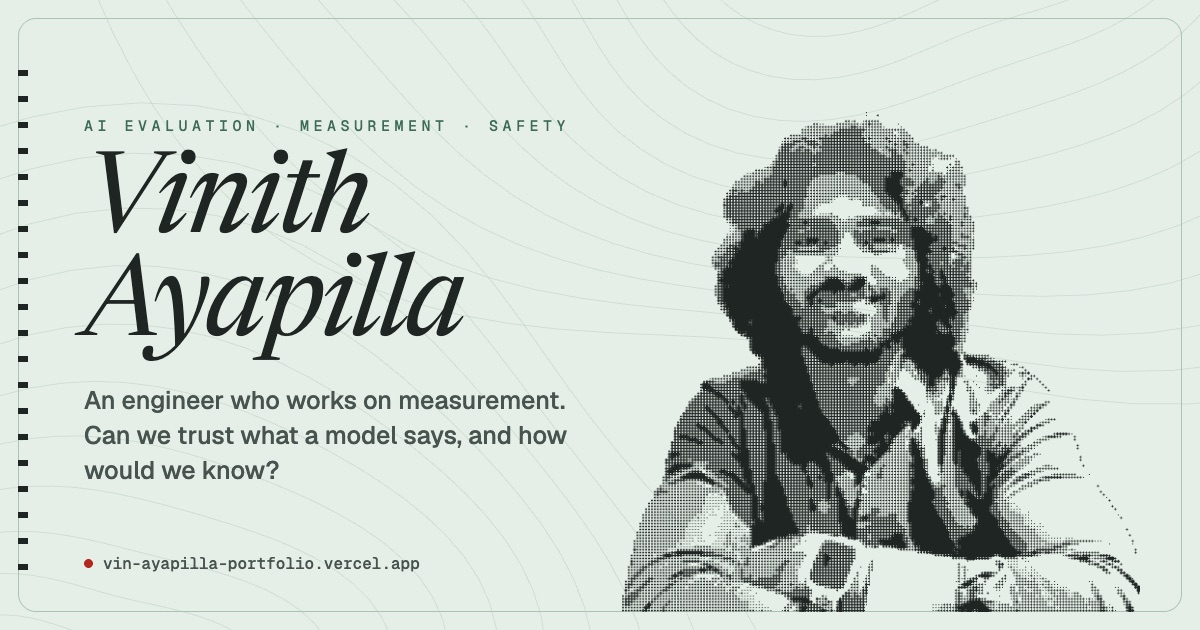
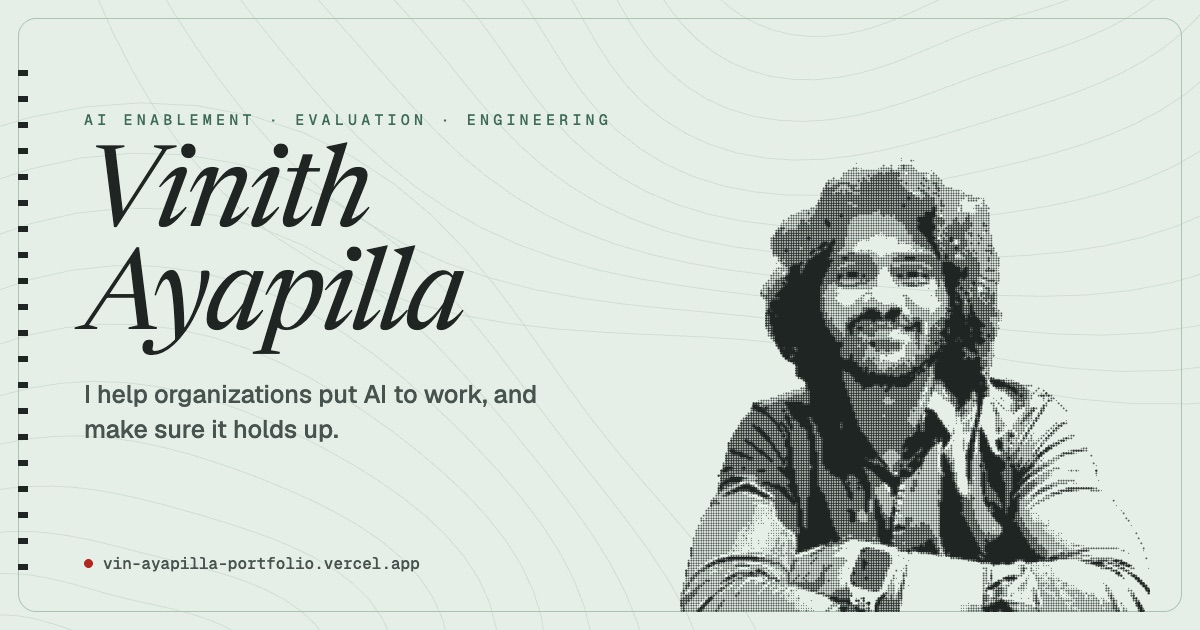
Reframe the home page around AI enablement
- Role line: AI enablement · evaluation · engineering (title, description,
  link-preview card and structured data updated to match)
- About leads with putting AI to work inside organizations and making sure it
  holds up; the India paragraph stays, in a more neutral form
- New "What I do" section: four capabilities, each linked to the work behind it
- Now block lists shipped and in-flight engineering before the safety teaser
- Effective altruism stays on the profile; the home corner label is now
  "about & skills"

diff --git a/src/content.js b/src/content.js
@@ -19,7 +19,7 @@ export const site = {
     url: 'https://vin-ayapilla-portfolio.vercel.app',
     email: 'vinithhazard@gmail.com',
     location: 'Boston, MA',
-    roleLine: 'AI evaluation · measurement · safety',
+    roleLine: 'AI enablement · evaluation · engineering',
     collaboration: 'Open to roles and research collaborations',
     resume: '/assets/Vinith_Ayapilla_Resume.pdf',
     social: [
@@ -30,17 +30,18 @@ export const site = {
 };
 
 export const thesis = [
-    "I'm an engineer who works on measurement. Can we trust what a model says, how would we know, and what does it take to run models responsibly on our own hardware?",
-    "Right now that means two jobs at the TIMSS & PIRLS International Study Center, the group behind the big international math, science and reading assessments. I research whether LLM judges can be trusted to estimate how hard a test question is, and I build the systems and the results site that put that data in front of education ministries.",
-    "The reason I care is personal. I grew up in India, where who gets good public services and good tools still tracks wealth more than need. I want powerful technology to reach everyone, and to be safe when it does. It's also why I'm part of the <a href=\"/profile#effective-altruism\">effective altruism</a> community.",
+    "I help organizations put AI to work, and make sure it holds up. That means building the pipelines, running models on hardware you control, measuring whether the output can be trusted, and shipping it to the people who need it.",
+    "Right now that's at the TIMSS & PIRLS International Study Center, the group behind the big international math, science and reading assessments. I moved our AI tooling onto self-hosted open models, digitized decades of assessment items with LLMs, built the evaluation that checks the results, and rebuilt the results site that puts the data in front of education ministries. Before that, I spent two and a half years at ZS Associates on healthcare and pharmaceutical data.",
+    "The reason I care is personal. I grew up in India, where who gets good public services and good tools still tracks wealth more than need. I want powerful technology to reach everyone, safely, and in a way that actually works for them.",
 ];
 
 /** "Currently working on". The first two entries use only the owner's approved wording. */
 export const now = [
     {
-        title: 'Multilingual LLM safety',
-        status: 'In progress',
-        text: "I’m working on a project about how AI safety holds up (or doesn’t) once you leave English. Most safety work assumes everyone’s talking to the model in English, and a lot of the world isn’t. More on this soon.",
+        title: 'TIMSS & PIRLS results site',
+        status: 'Shipped October 2026',
+        text: 'Rebuilt the report landing page, the accessibility and the phone layouts of the interactive results site.',
+        href: '/experience/iea-ai-evaluation-measurement',
     },
     {
         title: 'Post-training',
@@ -48,10 +49,37 @@ export const now = [
         text: 'Building a three-decade TIMSS item dataset (hundreds of thousands of rows) to post-train an open-source model to predict item IRT parameters. In progress.',
     },
     {
-        title: 'TIMSS & PIRLS results site',
-        status: 'Shipped October 2026',
-        text: 'Rebuilt the report landing page, the accessibility and the phone layouts of the interactive results site.',
+        title: 'Multilingual LLM safety',
+        status: 'In progress',
+        text: "I’m working on a project about how AI safety holds up (or doesn’t) once you leave English. Most safety work assumes everyone’s talking to the model in English, and a lot of the world isn’t. More on this soon.",
+    },
+];
+
+/** "What I do" on the home page: each claim points at the work that backs it. */
+export const capabilities = [
+    {
+        title: 'Put models to work',
+        text: 'Moved internal AI tooling from proprietary APIs to self-hosted open models, routing across quantized models with API fallback, to meet EU data-residency rules.',
+        href: '/experience/iea-ai-engineer',
+        link: 'AI Engineer role',
+    },
+    {
+        title: 'Turn messy data into something usable',
+        text: 'Digitized decades of print-only assessment items with LLM-assisted transcription and standardized every assessment cycle into one schema.',
+        href: '/experience/iea-ai-engineer',
+        link: 'How it was built',
+    },
+    {
+        title: 'Measure whether it works',
+        text: 'Built an evaluation harness scoring 10,000+ open-ended student responses against ground truth, and research how far LLM judges can be trusted.',
+        href: '/research',
+        link: 'Research',
+    },
+    {
+        title: 'Ship it to people',
+        text: 'Rebuilt the TIMSS & PIRLS international results site in React and TypeScript, to WCAG 2.2 AA, for the ministries and researchers who read it.',
         href: '/experience/iea-ai-evaluation-measurement',
+        link: 'Current role',
     },
 ];
 

diff --git a/index.html b/index.html
@@ -14,24 +14,24 @@
         })();
     </script>
 
-    <title>Vinith Ayapilla | AI evaluation, measurement and safety</title>
-    <meta name="description" content="Vinith Ayapilla is an engineer who works on measurement: whether we can trust what a language model says, how we would know, and how to run models responsibly on our own hardware.">
+    <title>Vinith Ayapilla | AI enablement, evaluation and engineering</title>
+    <meta name="description" content="Vinith Ayapilla helps organizations put AI to work and make sure it holds up: LLM pipelines, self-hosted models, evaluation, and the products that put results in front of people.">
     <link rel="canonical" href="https://vin-ayapilla-portfolio.vercel.app/">
     <link rel="icon" href="/favicon.svg" type="image/svg+xml">
 
     <meta property="og:type" content="website">
     <meta property="og:site_name" content="Vinith Ayapilla">
     <meta property="og:url" content="https://vin-ayapilla-portfolio.vercel.app/">
-    <meta property="og:title" content="Vinith Ayapilla | AI evaluation, measurement and safety">
-    <meta property="og:description" content="Vinith Ayapilla is an engineer who works on measurement: whether we can trust what a language model says, how we would know, and how to run models responsibly on our own hardware.">
+    <meta property="og:title" content="Vinith Ayapilla | AI enablement, evaluation and engineering">
+    <meta property="og:description" content="Vinith Ayapilla helps organizations put AI to work and make sure it holds up: LLM pipelines, self-hosted models, evaluation, and the products that put results in front of people.">
     <meta property="og:image" content="https://vin-ayapilla-portfolio.vercel.app/images/og-image.jpg">
     <meta property="og:image:width" content="1200">
     <meta property="og:image:height" content="630">
-    <meta property="og:image:alt" content="Vinith Ayapilla, AI evaluation, measurement and safety">
+    <meta property="og:image:alt" content="Vinith Ayapilla, AI enablement, evaluation and engineering">
 
     <meta name="twitter:card" content="summary_large_image">
-    <meta name="twitter:title" content="Vinith Ayapilla | AI evaluation, measurement and safety">
-    <meta name="twitter:description" content="Vinith Ayapilla is an engineer who works on measurement: whether we can trust what a language model says, how we would know, and how to run models responsibly on our own hardware.">
+    <meta name="twitter:title" content="Vinith Ayapilla | AI enablement, evaluation and engineering">
+    <meta name="twitter:description" content="Vinith Ayapilla helps organizations put AI to work and make sure it holds up: LLM pipelines, self-hosted models, evaluation, and the products that put results in front of people.">
     <meta name="twitter:image" content="https://vin-ayapilla-portfolio.vercel.app/images/og-image.jpg">
 
     <link rel="preconnect" href="https://fonts.googleapis.com">
@@ -51,7 +51,7 @@
       "email": "mailto:vinithhazard@gmail.com",
       "jobTitle": "Technical Dev/Consultant, AI Evaluation & Measurement",
       "worksFor": { "@type": "Organization", "name": "TIMSS & PIRLS International Study Center, Boston College" },
-      "knowsAbout": ["AI evaluation", "LLM-as-judge", "Psychometrics", "AI safety", "Effective altruism", "On-premise LLM deployment", "React", "TypeScript", "Accessibility"],
+      "knowsAbout": ["AI enablement", "LLM pipelines", "Self-hosted LLM deployment", "AI evaluation", "LLM-as-judge", "Psychometrics", "AI safety", "Effective altruism", "On-premise LLM deployment", "React", "TypeScript", "Accessibility"],
       "sameAs": [
         "https://www.linkedin.com/in/vinith-ayapilla-521b331a5/",
         "https://github.com/vinzard11",

diff --git a/src/pages.js b/src/pages.js
@@ -5,7 +5,7 @@
  * HTML a crawler sees is the HTML a visitor gets.
  */
 
-import { site, thesis, now, experience, research, researchGroups, projects, profile } from './content.js';
+import { site, thesis, now, capabilities, experience, research, researchGroups, projects, profile } from './content.js';
 import { figureHTML, previewHTML } from './charts.js';
 import { chrome, footer, menu, rich, esc, pills, themeToggle } from './ui.js';
 
@@ -14,7 +14,7 @@ import { chrome, footer, menu, rich, esc, pills, themeToggle } from './ui.js';
 const CORNERS = [
     { href: '/research', n: '01', file: 'papers & evaluations', label: 'Research' },
     { href: '/experience', n: '02', file: 'four roles', label: 'Experience' },
-    { href: '/profile', n: '03', file: 'about & effective altruism', label: 'Profile' },
+    { href: '/profile', n: '03', file: 'about & skills', label: 'Profile' },
     { href: '/projects', n: '04', file: 'mba & earlier', label: 'Projects' },
 ];
 
@@ -76,11 +76,23 @@ export function home() {
             <div class="home-copy">
                 ${thesis.map((p, i) => `<p${i === 0 ? ' class="lede"' : ''}>${p}</p>`).join('')}
                 <p class="home-links">
-                    <a href="/research">Read the research</a>
                     <a href="/experience">See the work</a>
+                    <a href="/research">Read the research</a>
                     <a href="/profile">More about me</a>
                 </p>
             </div>
+        </section>
+
+        <section class="home-section" id="what-i-do">
+            <h2 class="section-label">What I do</h2>
+            <ul class="caps">
+                ${capabilities.map((c) => `
+                    <li>
+                        <h3 class="cap-title">${c.title}</h3>
+                        <p class="cap-text">${c.text}</p>
+                        <a class="cap-link" href="${c.href}">${c.link} <span aria-hidden="true">→</span></a>
+                    </li>`).join('')}
+            </ul>
         </section>
 
         <section class="home-section" id="now">

diff --git a/src/style.css b/src/style.css
@@ -371,6 +371,19 @@ html.has-cursor, html.has-cursor * { cursor: none !important; }
 .home-links a:hover, .doc-links a:hover, .contact-line a:hover, .now-title a:hover { color: var(--red); text-decoration-color: currentColor; }
 .home-links a::after { content: ' →'; }
 
+/* What I do: four capabilities, each with a link to the work behind it */
+/* Four items: an even 2 x 2 so none is left alone on a row; one column on phones */
+.caps { display: grid; grid-template-columns: repeat(2, minmax(0, 1fr)); gap: 36px 44px; max-width: 880px; }
+@media (max-width: 640px) { .caps { grid-template-columns: 1fr; } }
+.caps li { display: grid; gap: 10px; align-content: start; padding-top: 16px; border-top: 1.5px solid var(--ink); }
+.cap-title { font: italic 400 var(--t-xl)/1.15 var(--f-display); }
+.cap-text { color: var(--ink-2); font-size: var(--t-sm); line-height: 1.65; }
+.cap-link {
+    justify-self: start; display: inline-flex; align-items: center; gap: 6px; min-height: 32px;
+    font: 500 var(--t-xs)/1 var(--f-mono); letter-spacing: .08em; text-transform: uppercase; color: var(--green);
+}
+.cap-link:hover { color: var(--red); }
+
 .now-list { display: grid; grid-template-columns: repeat(auto-fit, minmax(min(100%, 230px), 1fr)); gap: 28px 32px; }
 .now-list li { display: grid; gap: 8px; align-content: start; padding-top: 14px; border-top: 1.5px solid var(--ink); }
 .now-status { font: 500 var(--t-xs)/1.2 var(--f-mono); letter-spacing: .12em; text-transform: uppercase; color: var(--red); }

diff --git a/src/routes.js b/src/routes.js
@@ -14,8 +14,8 @@ export const staticRoutes = [
     {
         path: '/',
         page: 'home',
-        title: `${NAME} | AI evaluation, measurement and safety`,
-        description: 'Vinith Ayapilla is an engineer who works on measurement: whether we can trust what a language model says, how we would know, and how to run models responsibly on our own hardware.',
+        title: `${NAME} | AI enablement, evaluation and engineering`,
+        description: 'Vinith Ayapilla helps organizations put AI to work and make sure it holds up: LLM pipelines, self-hosted models, evaluation, and the products that put results in front of people.',
         render: pages.home,
     },
     {

diff --git a/src/ui.js b/src/ui.js
@@ -19,7 +19,7 @@ export const rich = (text) => text
 const NAV = [
     { href: '/research', label: 'Research', note: 'Papers & evaluations' },
     { href: '/experience', label: 'Experience', note: 'Four roles' },
-    { href: '/profile', label: 'Profile', note: 'About, effective altruism, skills' },
+    { href: '/profile', label: 'Profile', note: 'About, skills, community' },
     { href: '/projects', label: 'Projects', note: 'MBA & earlier' },
 ];
 
